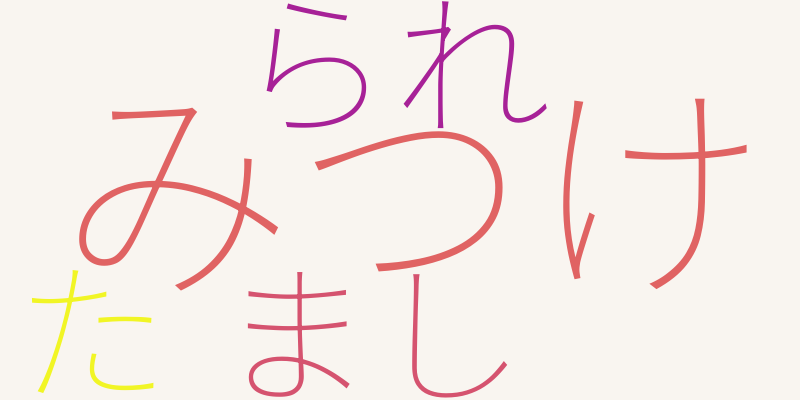
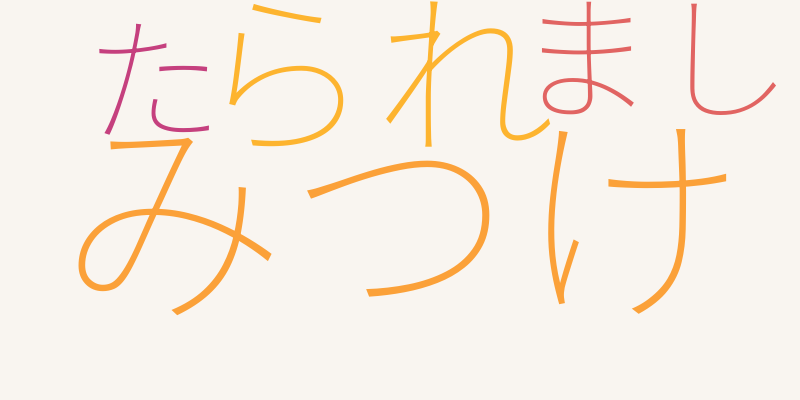
Ya hay nube de palabras en japonés, correciones a detectar idioma, todo listo, faltan docstrings y mejorar csv

diff --git a/appdjango/utils.py b/appdjango/utils.py
@@ -38,36 +38,33 @@ def obtener_texto_desde_request(request: HttpRequest): #ir a views para visualiz
 
 # En estos apartados se hace la adaptación al cuaderno de colab para una mayor organización en funciones.
 #Pre-inicializa el tagger de japonés
-TAGGER = Tagger()
 
-def detectar_idioma(texto: str, mensajes: dict): #daba un montón de errores entonces aquí por si algo se le condiciona a ser string
-    texto = texto.strip()
-    #tokenizamos:
-    if re.search(r'[\u3000-\u303F\u3040-\u309F\u30A0-\u30FF]', texto): #el re permite la búsqueda de esos carácteres
-        #Contiene caracteres japoneses usando fugashi
-        tokens = [t.surface for t in TAGGER(texto)] #Los "tokens superficiales" son las palabras tal como aparecen, en analizar texto se ve prácticamente esta misma línea, solo que con otras variables.
-    else:
-        #extraemos palabras latinas completas, (si no es japonés, extraemos palabras normales (letras, números, etc.))
-        tokens = re.findall(r'\b\w+\b', texto.lower()) #nuevamente un re para buscar, todo esto en la cadena en minúsculas
-
+def detectar_idioma(texto: str, mensajes): #daba un montón de errores entonces aquí por si algo se le condiciona a ser string
+    texto = texto.lower()
     archivos = {
         #Diccionario que asocia cada idioma con su archivo .txt de palabras mas usadas
-        "español": "español.txt",
-        "portugues": "portugues.txt",
-        "ingles":  "ingles.txt",
-        "japones": "japones.txt",
+        "Español": "español.txt",
+        "Português": "portugues.txt",
+        "English":  "ingles.txt",
+        "日本語": "japones.txt",
     }
     puntaje = {} #aquí se registrapan los puntajes por idioma
-    for idioma, archivo in archivos.items(): #por los archivos de texto
-        #Se abre y lee el archivo con palabras clave del idioma (usando "utf-8" como codificación)
-        path = os.path.join(settings.BASE_DIR, "idiomas", archivo)
-        if not os.path.exists(path):
-            puntaje[idioma] = 0 #el puntaje de los idiomas será 0 para evitar error si el archivo no existe
+    for idioma, archivo in archivos.items(): #por los archivos de texto      
+        puntaje[idioma] = 0 #inicializar contador vacíon
+        ruta = os.path.join(settings.BASE_DIR, "idiomas", archivo)
+        if not os.path.exists(ruta): #para evitar error si el archivo no es encontrado
             continue 
-        palabras_clave = open(path, encoding="utf-8").read().lower().split()
-        #contamos cuántas palabras del texto están en las palabras clave
-        contador = sum(1 for w in tokens if w.lower() in palabras_clave)
-        puntaje[idioma] = contador #cuántas por cada idioma
+        palabras_archivo = open(ruta, encoding="utf-8").read().lower().split()#Se abre y lee el archivo con palabras clave del idioma (usando "utf-8" como codificación)
+        
+        if idioma == "日本語": #cuando pase por el archivo de japonés debemos de inicializar fugashi
+            tagger = Tagger() #permite la tokenización 
+            palabras_texto = [token.surface for token in tagger(texto)] #En la función de análisis de texto se ve de manera similar, con el texto tokenizado recorremos el texto
+        else:
+            palabras_texto = texto.split() #si no es el archivo de japonés entonces simplemente partimos el texto por palabras
+
+        for palabra in palabras_archivo: #contamos cuántas palabras del texto están en las palabras clave (comenzamos a comparar)
+            if palabra in palabras_texto:
+                puntaje[idioma] += 1  #si sí se encuentra en el txt entonces sumamos una coincidencia al diccionario
 
      #Si ningún idioma obtuvo puntaje (0 coincidencias en todos), no se detectó idioma
     if all(p == 0 for p in puntaje.values()):
@@ -100,10 +97,10 @@ def cargar_diccionario(ruta_csv):
 
 # Diccionarios por idioma
 diccionarios = {
-    "español": cargar_diccionario(csv_esp),
-    "ingles": cargar_diccionario(csv_ing),
-    "portugues": cargar_diccionario(csv_por),
-    "japones": cargar_diccionario(csv_jap)
+    "Español": cargar_diccionario(csv_esp),
+    "English": cargar_diccionario(csv_ing),
+    "Português": cargar_diccionario(csv_por),
+    "日本語": cargar_diccionario(csv_jap)
 }
 
 # Esta función busca la palabra en el idioma del texto
@@ -151,7 +148,7 @@ def analizar_texto(texto: str, mensajes):
     idioma = detectar_idioma(texto, mensajes)
 
     #para japonés
-    if idioma == "japones": 
+    if idioma == "日本語": 
         if not texto.endswith("。"): #Por si el usuario no pone un punto al final, para que el programa cuente la última frase
             texto += "。"
         tagger = Tagger()  #Crea un analizador morfológico japonés
@@ -272,10 +269,17 @@ def varianza_poblacional(total_veces, palabras_unicas, mensajes):
 
 
 from wordcloud import WordCloud
-def generar_nube_palabras(texto): #la nube se genera a partir del texto limpio
+def generar_nube_palabras(texto, idioma): #la nube se genera a partir del texto limpio
     
-    ruta_directorio = "static/img"
-    os.makedirs(ruta_directorio, exist_ok=True)
+    ruta_directorio = "static/img" #aquí se guarda la imágen
+    os.makedirs(ruta_directorio, exist_ok=True) #
+    #wordcloud hace la nube a partir de las palabras que detecta (separadas por espacio, como el japonés no se separa así entonces...)
+    if idioma == "日本語":
+        tagger = Tagger()
+        tokens = [token.surface for token in tagger(texto) if token.surface not in {"。", "、"}] #después de cada token, coma o punto
+        textobueno = " ".join(tokens) #se separan por espacio, y ese será el texto a evaluar
+    else:
+        textobueno = texto #si no es japonés se evalúa con normalidad
 
     #Crear la nube 
     nube = WordCloud(
@@ -285,7 +289,7 @@ def generar_nube_palabras(texto): #la nube se genera a partir del texto limpio
         colormap="plasma",
         font_path="static/fuente/notosans.ttf",  #se añade una fuente que soporta los carácteres japoneses
         max_words=100,
-    ).generate(texto)
+    ).generate(textobueno)
 
     #Guardar la imagen
     nube.to_file("static/img/nube.png") #posteriormente en views, se muestra (ver views y html)

diff --git a/appdjango/views.py b/appdjango/views.py
@@ -22,8 +22,9 @@ def inicio(request): #Función que se activa cuando alguien entra a la pagina pr
         texto_usuario = obtener_texto_desde_request(request) #Se extrae el texto que ha escrito la persona.
 
         if texto_usuario.strip(): #Se verifica que el texto no este vacio
-            generar_nube_palabras(texto_usuario) #Se crea una imagen como nube de palabras
+            
             idioma_detectado = detectar_idioma(texto_usuario, mensajes)
+            generar_nube_palabras(texto_usuario, idioma_detectado) #Se crea una imagen como nube de palabras
             resultado = analizar_texto(texto_usuario, mensajes)
             resultado["idioma"] = idioma_detectado #Se realiza el analisis del texto.
 

diff --git a/appdjango/models.py b/appdjango/models.py
@@ -1,5 +1,6 @@
 from django.db import models
 
+#este archivo es prácticamente el que permite el acceso al cliente a la pg
 class clientes(models.Model):
-    nombre = models.CharField(max_length=100)
-    fecha =models.DateTimeField()
+    nombre = models.CharField(max_length=100) #para ver la actividad del usuario 
+    fecha =models.DateTimeField() #la fecha y hora en la que la ejecutó

diff --git a/manage.py b/manage.py
@@ -3,7 +3,7 @@
 import os
 import sys
 
-
+#este archivo corre el servidor (django)
 def main():
     """Run administrative tasks."""
     os.environ.setdefault('DJANGO_SETTINGS_MODULE', 'cont.settings')
